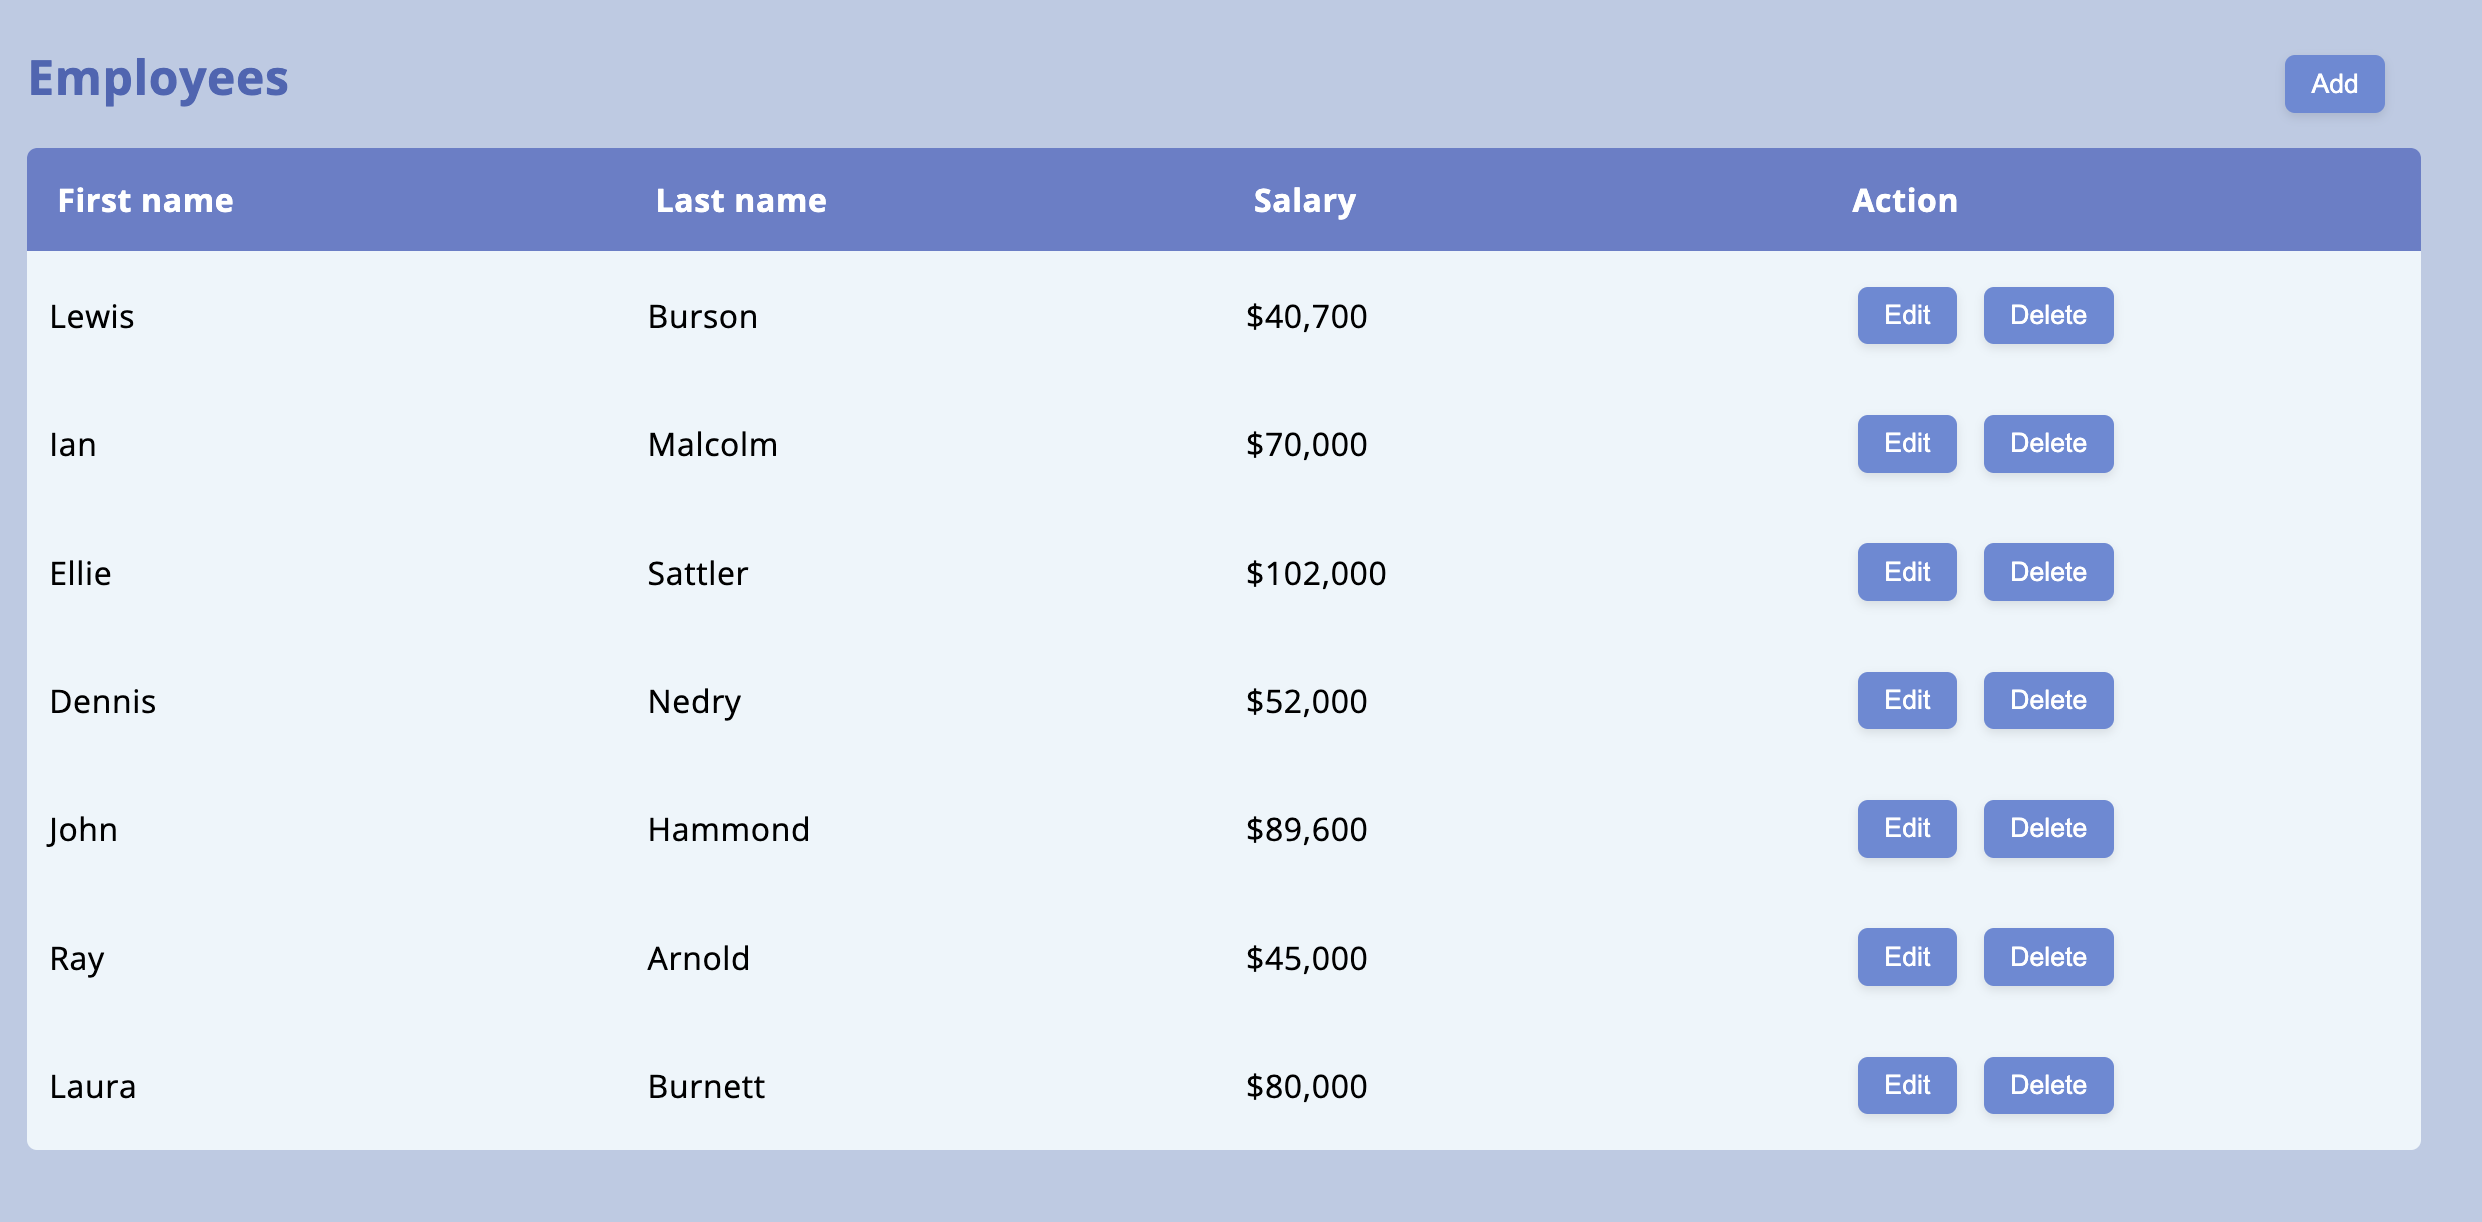
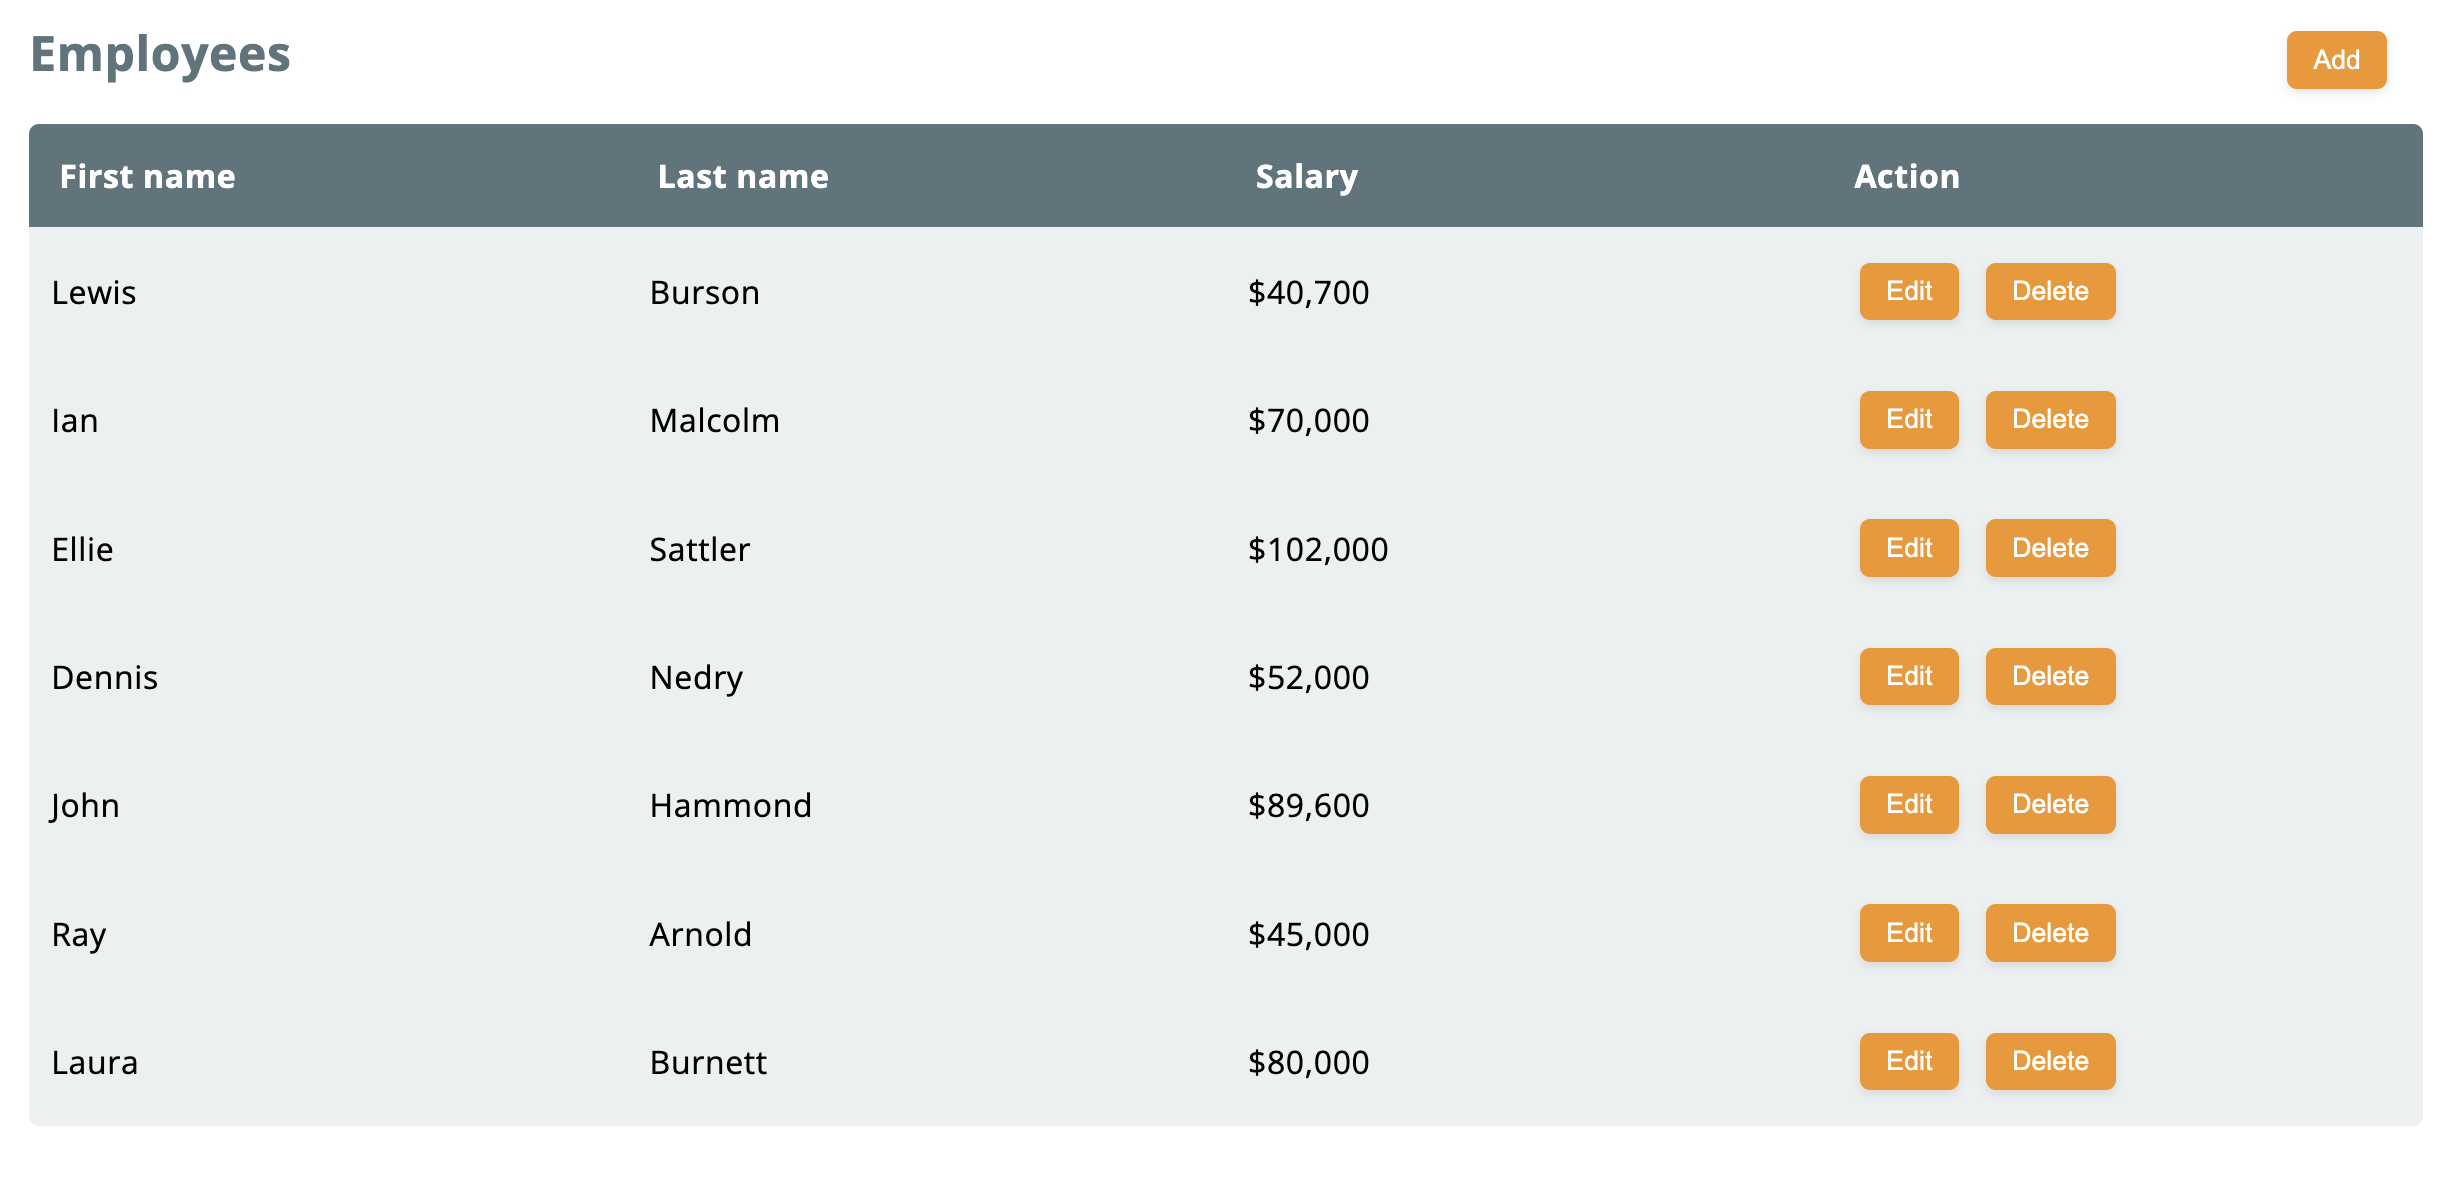
change theme color

diff --git a/front-app/src/assets/style.css b/front-app/src/assets/style.css
@@ -4,7 +4,7 @@
 }
 
 body {
-    background:#bbcae4;
+    background:#FFFFFF;
     font-size:16px;
     font-family: 'Open Sans', sans-serif;
     letter-spacing: 0.02em;
@@ -24,11 +24,11 @@ table {
 }
 
 tr {
-    background-color: #ecf5fb;
+    background-color: #ecf0f1;
 }
 
 th {
-    background: #667fca;
+    background: #5c747c;
     color:#FFFFFF;
     padding:15px;
     text-align:left;
@@ -59,7 +59,7 @@ td {
 
 .table-header {
     font-size: 1.5em;
-    color: #4a66b5;
+    color: #5c747c;
     margin: 0;
     padding: 0.5em 0;
 }
@@ -69,7 +69,7 @@ td {
     margin: 0.5em;
     border: none;
     border-radius: 5px;
-    background-color: #668ad8;
+    background-color: #f4941c;
     color: white;
     cursor: pointer;
     transition: all 0.3s ease;
@@ -77,7 +77,7 @@ td {
 }
 
 .table-button:hover {
-    background-color: #4a66b5;
+    background-color: #6f4314;
     box-shadow: 0px 2px 8px rgba(0, 0, 0, 0.15);
 }
 

diff --git a/README.md b/README.md
@@ -34,6 +34,8 @@ $ docker-compose build --no-cache && docker-compose up
 
 ## 2, Sample Data insert Manually
 
+Open another terminal then,
+
 ```Shell
 $ docker-compose exec employees-app poetry run python -m api.migrate_db
 ```
